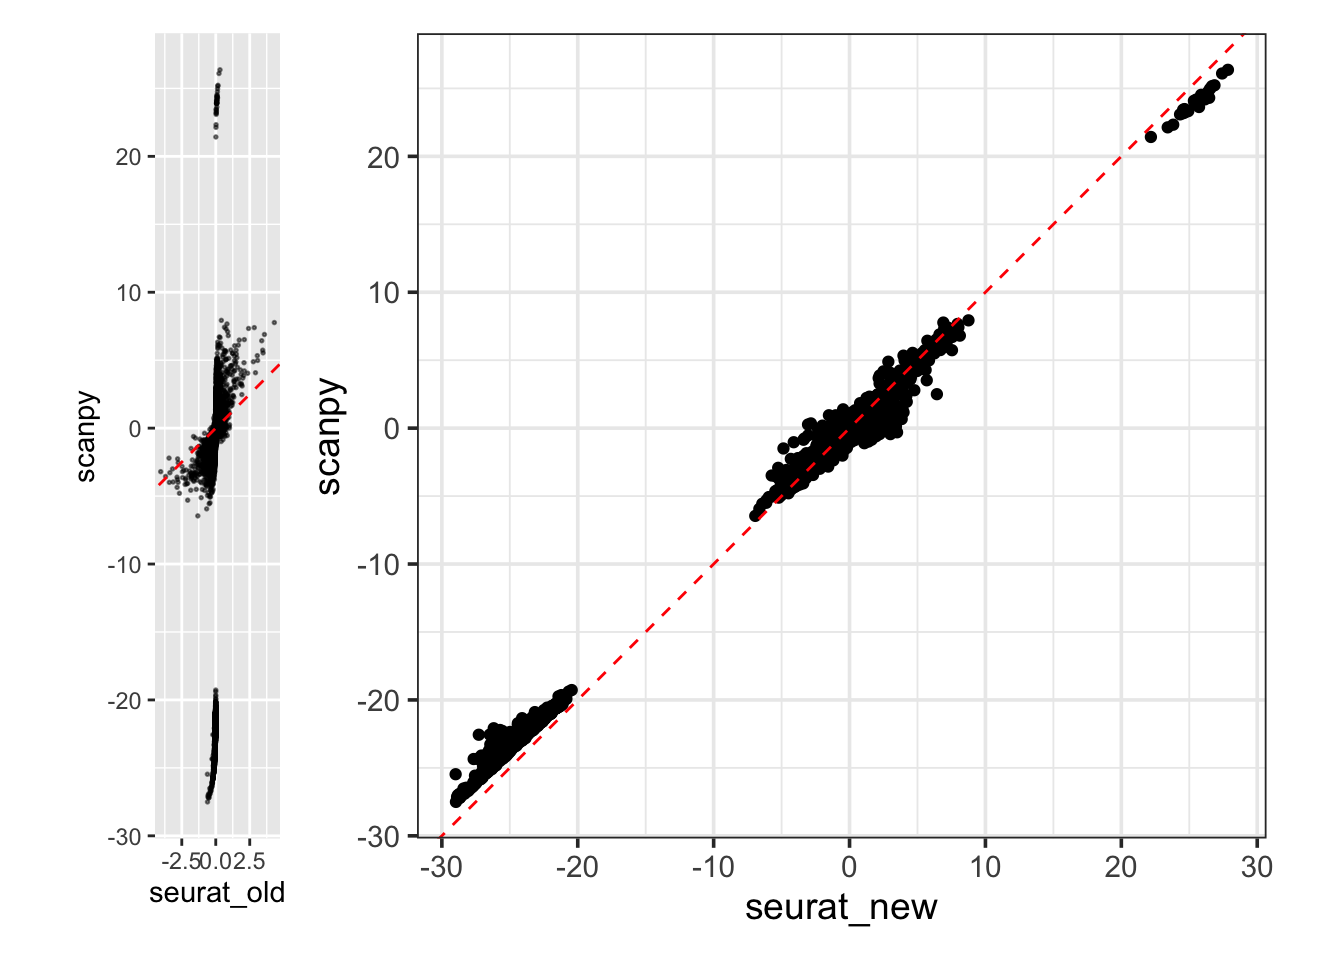
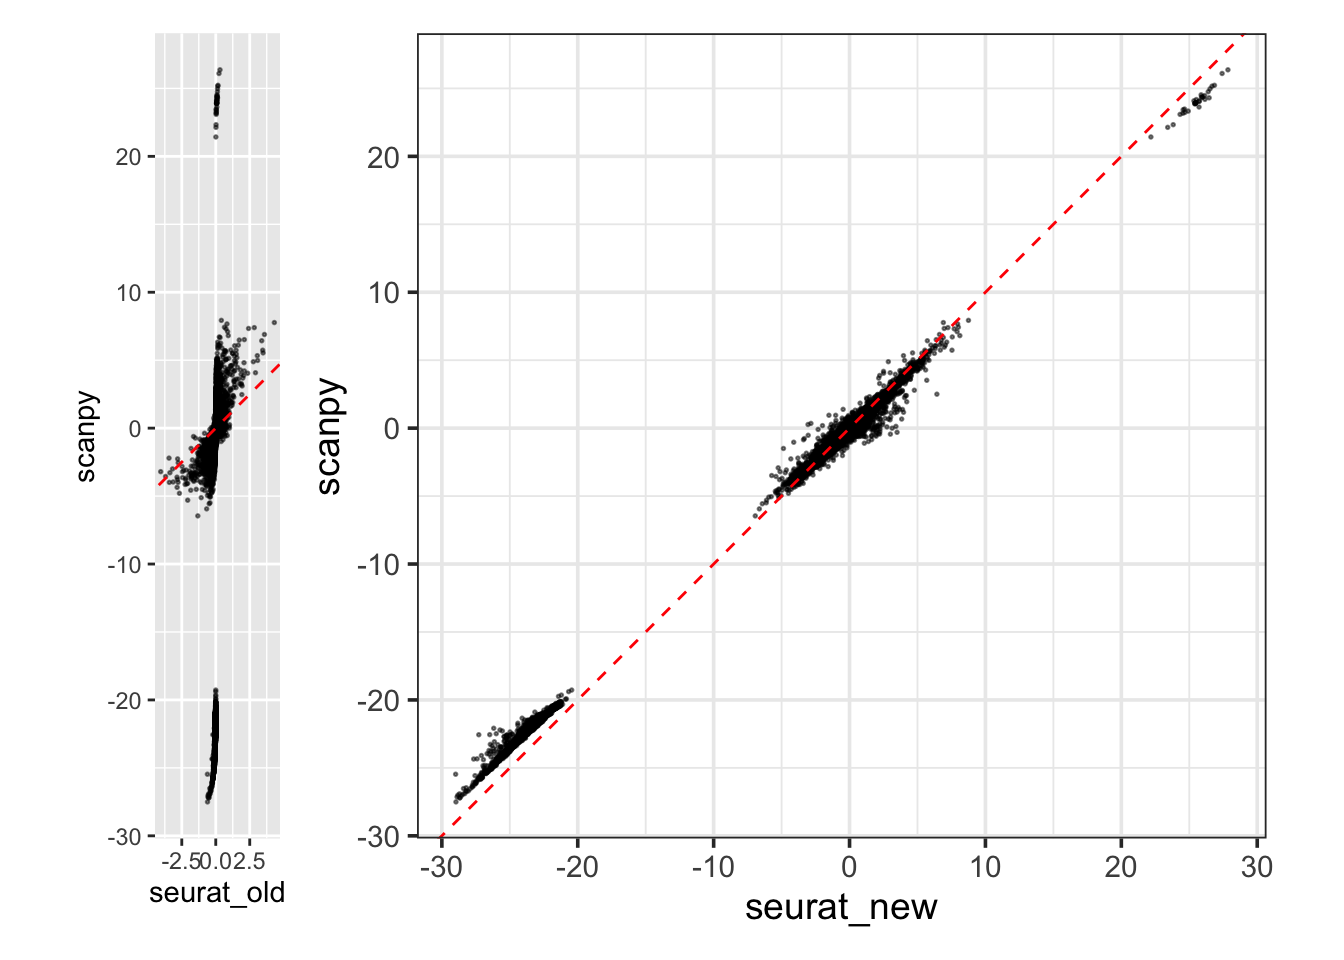
update

diff --git a/content/post/2024-03-05-do-you-really-understand-log2fold-change-in-single-cell-rnaseq-data.html b/content/post/2024-03-05-do-you-really-understand-log2fold-change-in-single-cell-rnaseq-data.html
@@ -243,7 +243,7 @@ p1&lt;- ggplot(fold_df) +
 
 
 p2&lt;- ggplot(fold_df) +
-        geom_point(aes(x=seurat_new, y = scanpy)) +
+        geom_point(aes(x=seurat_new, y = scanpy), size = 0.3, alpha = 0.5) +
         geom_abline(intercept = 0, slope = 1, linetype = 2, color = &quot;red&quot;) +
         coord_equal() +
         theme_bw(base_size = 14)
@@ -267,4 +267,8 @@ The <code>R</code> world is split into <code>Seurat</code> and <code>Bioconducto
 by the <code>scverse</code>. We should encourage interactions between different communities to solve
 common challenges.</p></li>
 </ol>
+</div>
+<div id="further-reading" class="section level3">
+<h3>Further reading</h3>
+<p><a href="https://github.com/bnprks/BPCells/issues/45">Markers different in BPCells than in Seurat</a></p>
 </div>
